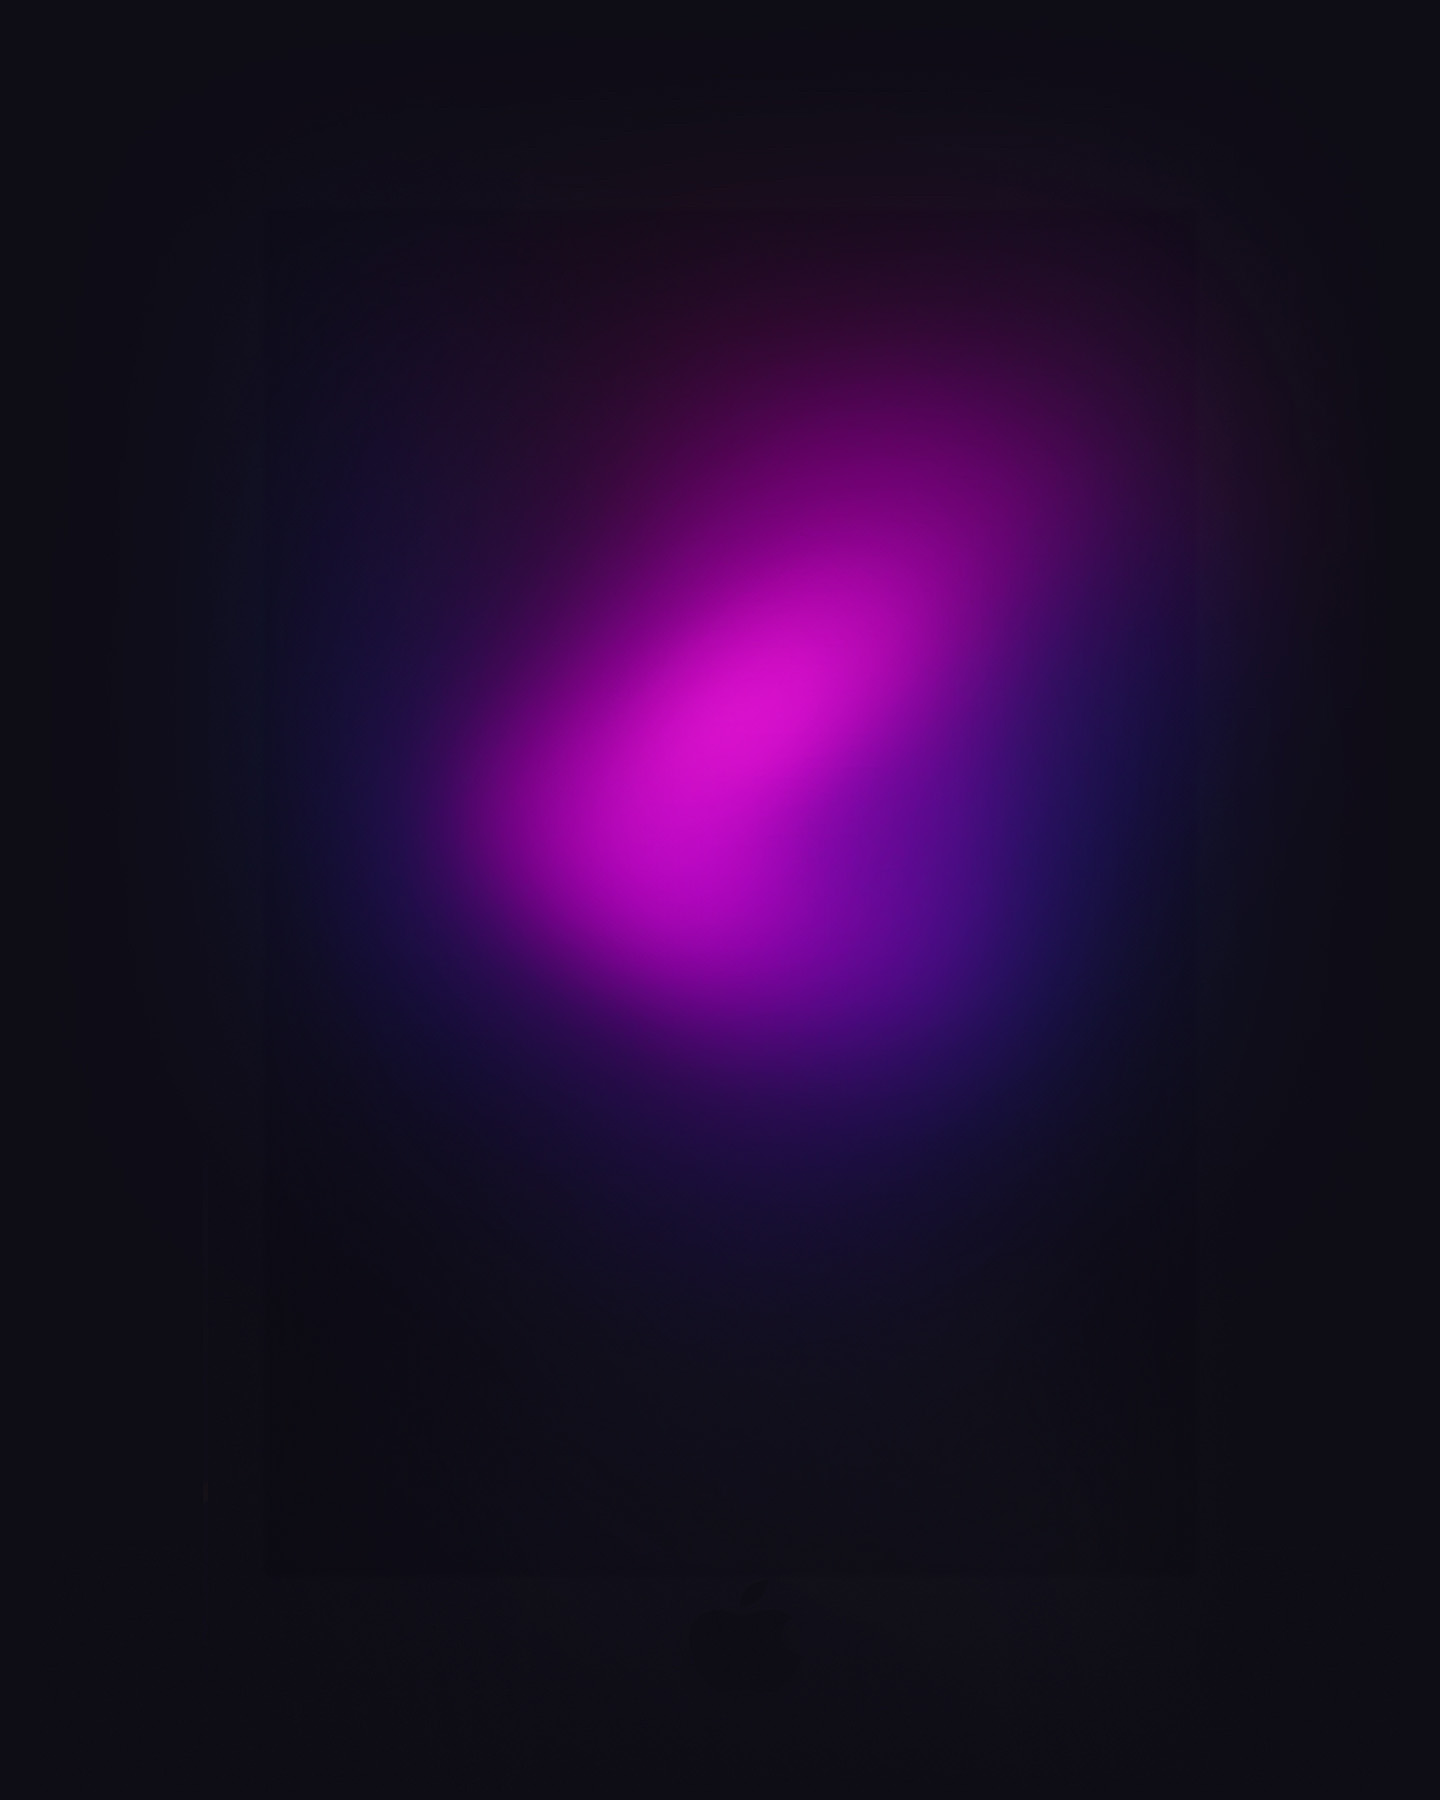
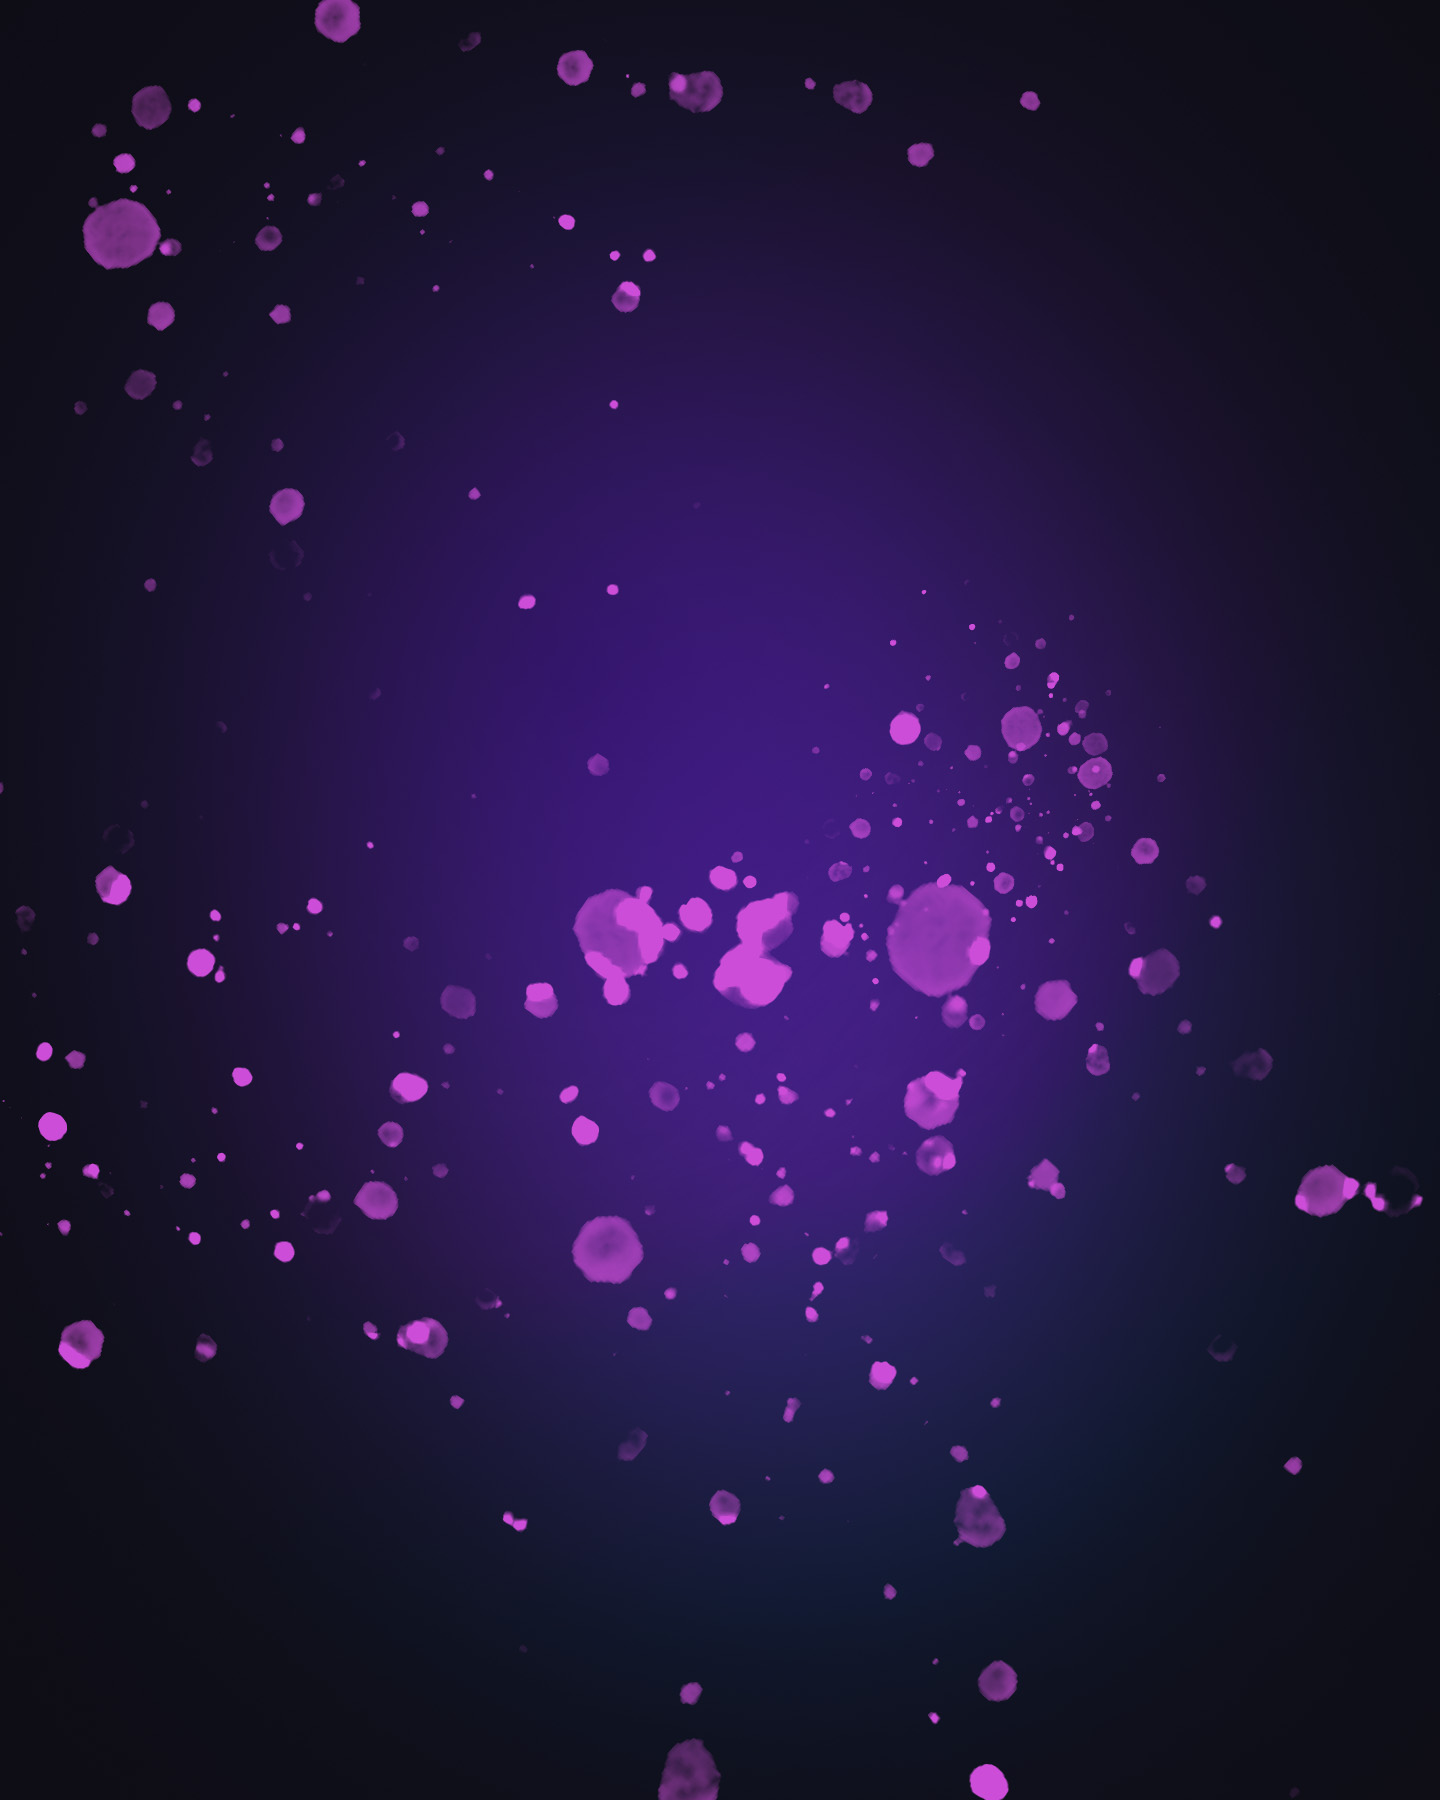
BG experiments

diff --git a/src/components/Hero.jsx b/src/components/Hero.jsx
@@ -1,6 +1,6 @@
 import Section from "./Section";
 import lossless from "../assets/hero/lossless.png";
-import heroBackground from "../assets/hero/hero-background.jpg";
+import tamaBackground from "../assets/hero/tama-background.jpg";
 
 const Hero = () => {
   return (
@@ -37,9 +37,9 @@ const Hero = () => {
             </div>
           </div>
         </div>
-        <div className="absolute -top-[54%] left-1/2 w-[234%] -translate-x-1/2 md:-top-[46%] md:w-[138%] lg:-top-[104%]">
+        <div className="absolute -top-[54%] left-1/2 w-[234%] -translate-x-1/2 md:-top-[46%] md:w-[138%] lg:-top-[104%] blur">
           <img
-            src={heroBackground}
+            src={tamaBackground}
             className="w-full"
             width={1440}
             height={1800}
